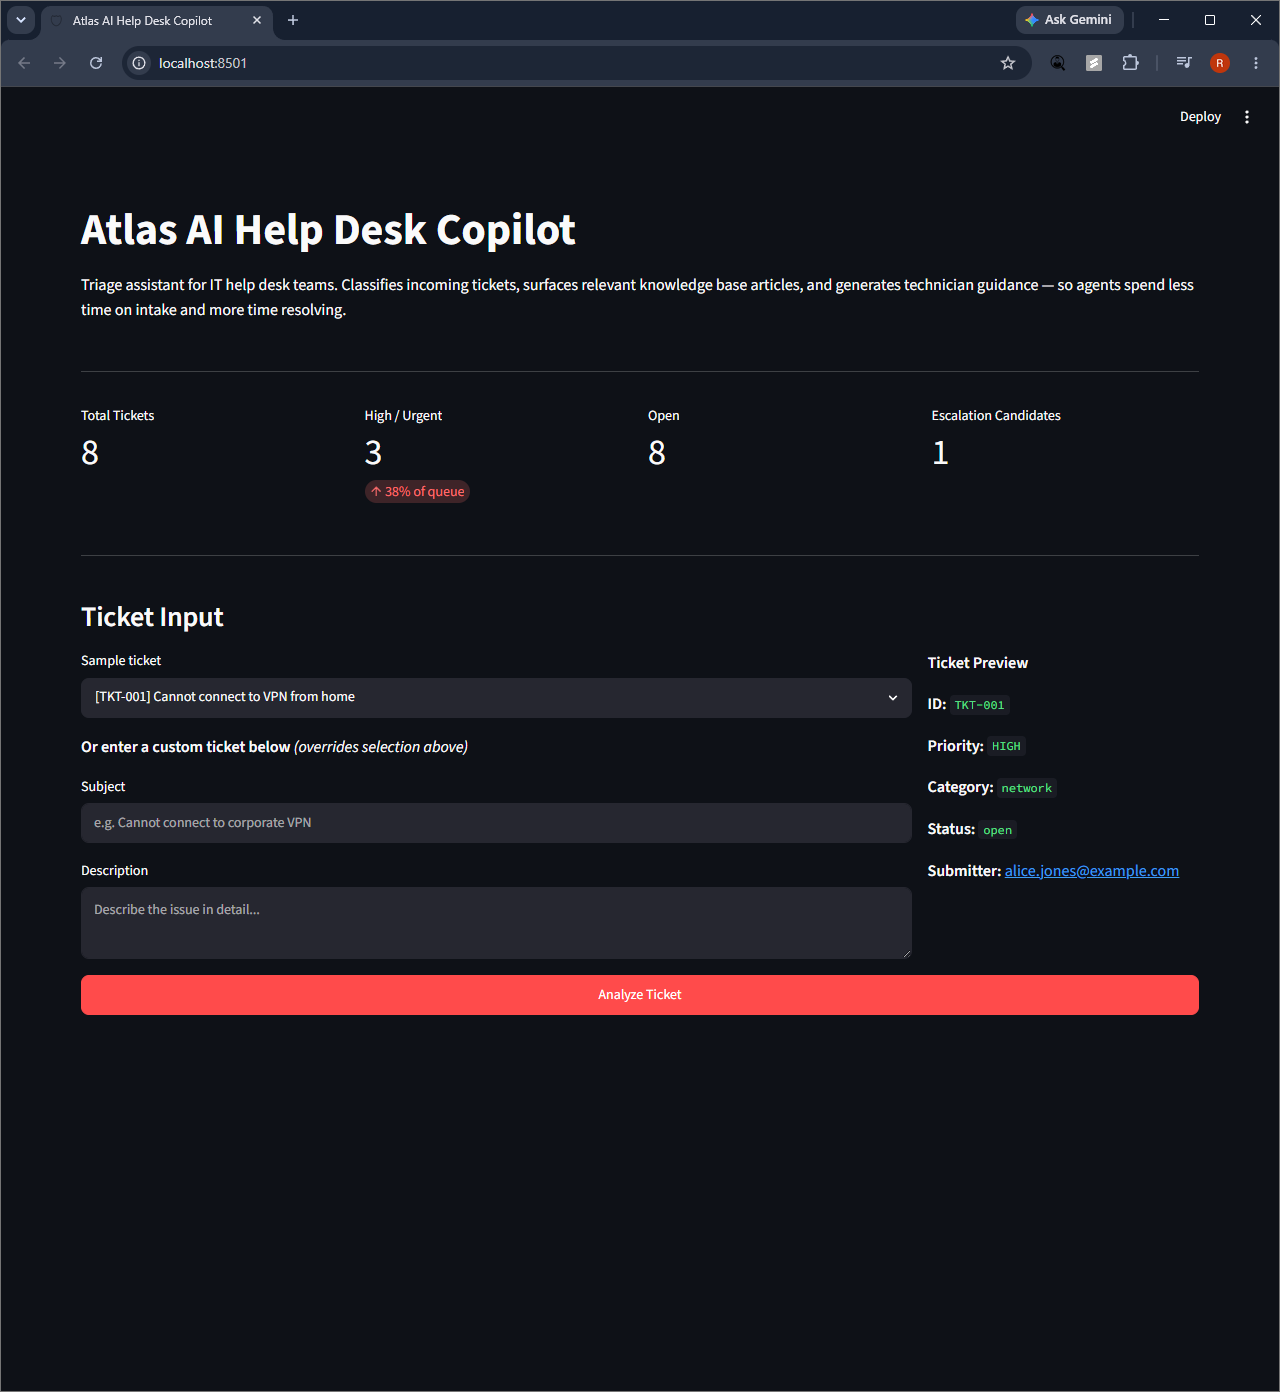
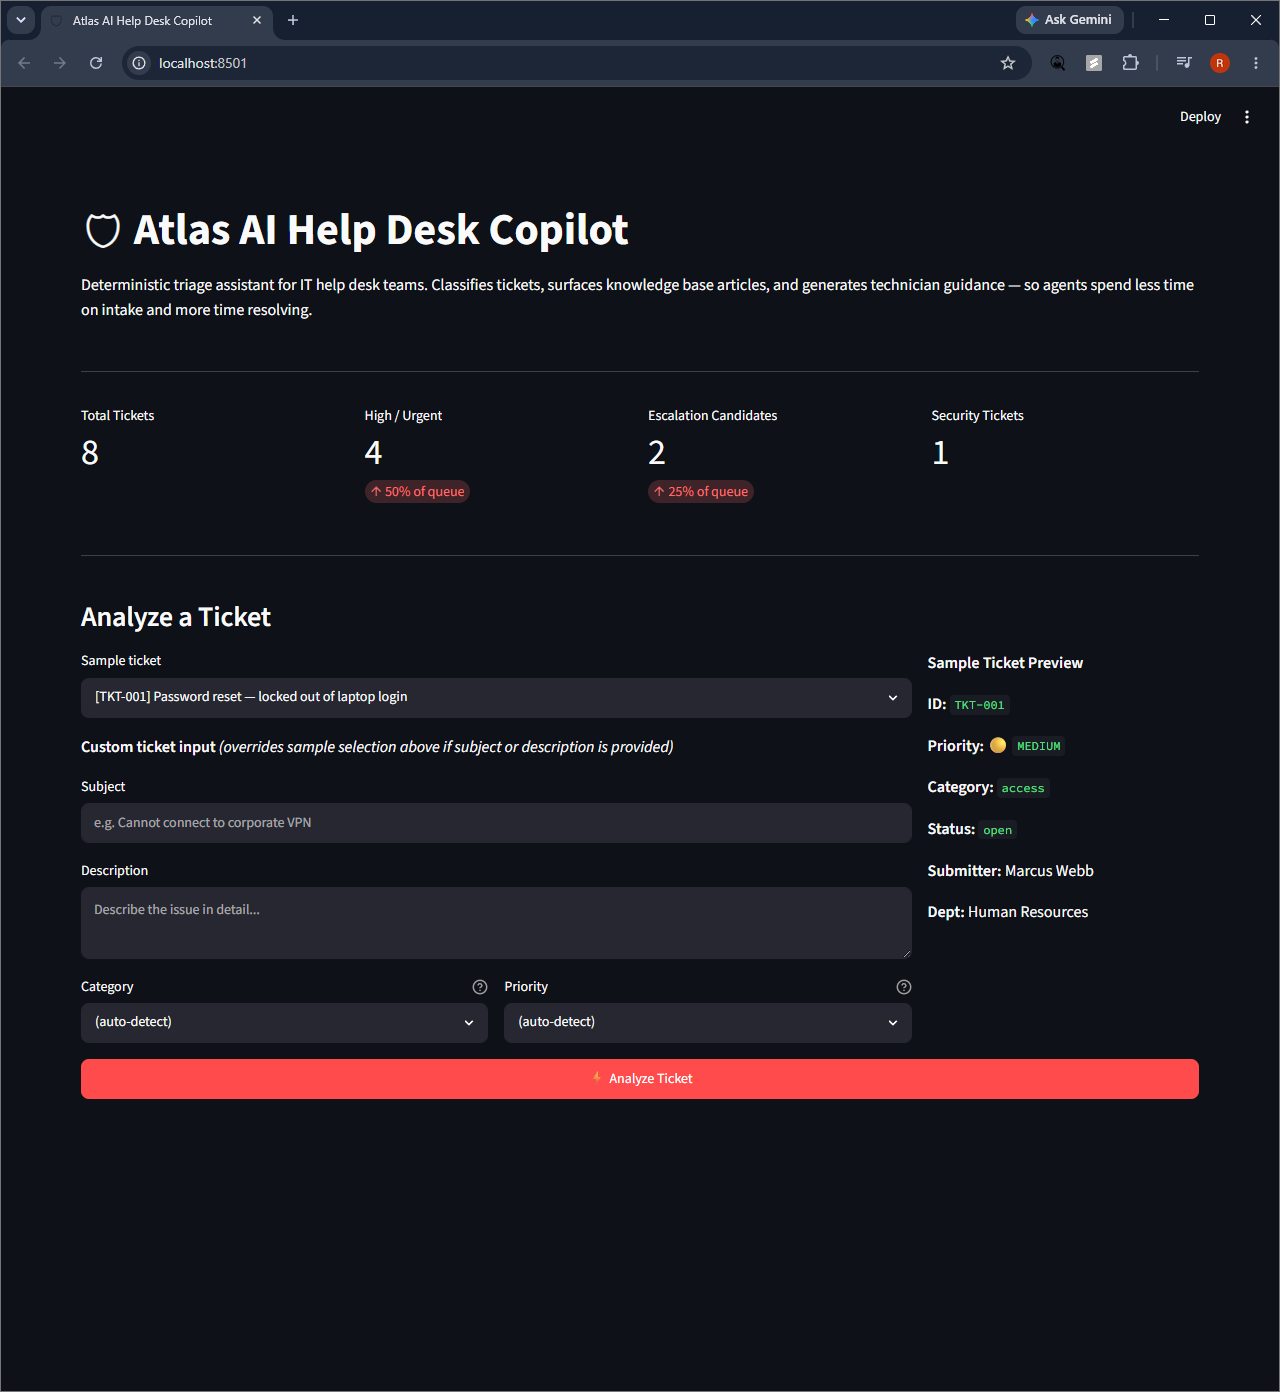
docs: add atlas screenshots and README image pass

diff --git a/app.py b/app.py
@@ -62,13 +62,20 @@ m4.metric("Security Tickets", security_count)
 
 st.divider()
 
+# ── Demo mode — ?ticket=TKT-007 pre-selects and auto-analyzes ────────────────
+_demo_id = st.query_params.get("ticket", "")
+
 # ── Ticket Input ───────────────────────────────────────────────────────────────
 st.subheader("Analyze a Ticket")
 input_left, input_right = st.columns([3, 1])
 
 with input_left:
     ticket_options = {f"[{t['id']}] {t['subject']}": t for t in tickets}
-    selected_label = st.selectbox("Sample ticket", options=list(ticket_options.keys()))
+    _labels = list(ticket_options.keys())
+    _default_idx = next(
+        (i for i, lbl in enumerate(_labels) if _demo_id in lbl), 0
+    ) if _demo_id else 0
+    selected_label = st.selectbox("Sample ticket", options=_labels, index=_default_idx)
     selected_ticket = ticket_options[selected_label]
 
     st.markdown(
@@ -109,8 +116,8 @@ with input_right:
 analyze = st.button("⚡ Analyze Ticket", type="primary", use_container_width=True)
 
 # ── Triage Results ─────────────────────────────────────────────────────────────
-if analyze:
-    if custom_subject.strip() or custom_desc.strip():
+if analyze or _demo_id:
+    if not _demo_id and (custom_subject.strip() or custom_desc.strip()):
         active_ticket: dict = {
             "id": "TKT-CUSTOM",
             "subject": custom_subject.strip() or "(no subject)",

diff --git a/README.md b/README.md
@@ -134,14 +134,43 @@ Atlas-AI-Help-Desk-Copilot/
 
 ## Screenshots
 
-*Screenshots will be added in Phase 6.*
+### Dashboard — Queue Overview
 
-| Screen | Description |
-|---|---|
-| Dashboard | Queue metrics and ticket selector |
-| Phishing triage | Critical risk + escalation banner |
-| Troubleshooting checklist | Step-by-step KB checklist |
-| Resolution template | Post-resolution documentation |
+![Atlas dashboard showing 8 demo tickets with high/urgent count, escalation candidates, and security ticket metrics](docs/screenshots/01-dashboard.png)
+
+*Dashboard on load: 8 tickets in queue, 4 high/urgent, 2 escalation candidates, 1 security ticket. Ticket selector and custom input ready for analysis.*
+
+---
+
+### Phishing Ticket Triage — Critical Risk + Escalation
+
+![Atlas triage results for a phishing ticket showing Critical risk level and escalation recommended banner](docs/screenshots/02-ticket-triage.png)
+
+*TKT-007: Phishing email reported by an IT staff member. Atlas detects security keywords, overrides the category to Security, sets risk to Critical, and fires the escalation banner with a specific reason — before the technician has done anything.*
+
+---
+
+### Troubleshooting Plan — KB Articles and Checklist
+
+![Atlas KB article matches and step-by-step troubleshooting checklist for a VPN connectivity issue](docs/screenshots/03-troubleshooting-plan.png)
+
+*TKT-005: Repeating VPN drops. Atlas matches the GlobalProtect stability KB article, expands escalation triggers, and generates a ranked checklist — MTU check, power management fix, and gateway log review — ready for the technician to work through.*
+
+---
+
+### Documentation Output — Resolution Template
+
+![Atlas resolution documentation template pre-filled with ticket metadata for a shared drive access issue](docs/screenshots/04-documentation-output.png)
+
+*TKT-008: Shared drive missing after department transfer. The resolution template is pre-filled with ticket ID, category, priority, risk level, and escalation status — technician fills in root cause and steps taken after resolving.*
+
+---
+
+### README Preview — Portfolio Documentation
+
+![Atlas README rendered in VS Code Markdown preview showing embedded screenshots and structured documentation](docs/screenshots/05-readme-preview.png)
+
+*The README is written HR-first: headline, what it proves, demo workflow, and honest limitations — before the technical stack. A hiring manager can assess the project in under 2 minutes without cloning it.*
 
 ---
 

diff --git a/.claude/agents/screenshot-director.md b/.claude/agents/screenshot-director.md
@@ -1,0 +1,44 @@
+---
+name: screenshot-director
+description: Plan and review screenshot order, filenames, captions, and hiring-manager proof flow for Atlas portfolio screenshots. Use before capturing screenshots or before updating README image embeds.
+---
+
+# Screenshot Director
+
+You plan and review the Atlas screenshot workflow for portfolio use.
+
+## Audience
+Hiring managers reviewing a remote IT help desk portfolio project. Screenshots must show:
+- A working dashboard with real queue metrics
+- A security escalation (phishing ticket) as the hero example
+- KB articles and troubleshooting checklist in use
+- Resolution documentation output
+
+## Screenshot Standard
+- Browser window maximised, no personal info visible
+- No browser address bar showing localhost unless unavoidable
+- Streamlit default theme (no dark mode unless consistent)
+- All 5 target files must exist before README embeds are updated
+
+## Target Files
+```
+docs/screenshots/01-dashboard.png          — queue metrics, no analysis
+docs/screenshots/02-ticket-triage.png      — TKT-007 phishing, escalation banner + risk metrics
+docs/screenshots/03-troubleshooting-plan.png — TKT-005 VPN, KB articles + checklist visible
+docs/screenshots/04-documentation-output.png — TKT-007 or TKT-008, resolution template visible
+docs/screenshots/05-readme-preview.png     — README rendered in browser or VS Code
+```
+
+## Rules
+- Output ≤10 lines.
+- No code edits. Review and planning only.
+- Flag: screenshots in wrong order, wrong filename, content not matching caption, missing escalation hero.
+- Flag: README embed paths that don't match actual filenames.
+- Approve when all 5 files exist and README embeds are accurate.
+
+## Output format
+```
+VERDICT: [ready | missing | block]
+FILES: [list missing or mismatched files]
+NOTES: [optional — one line per issue]
+```
